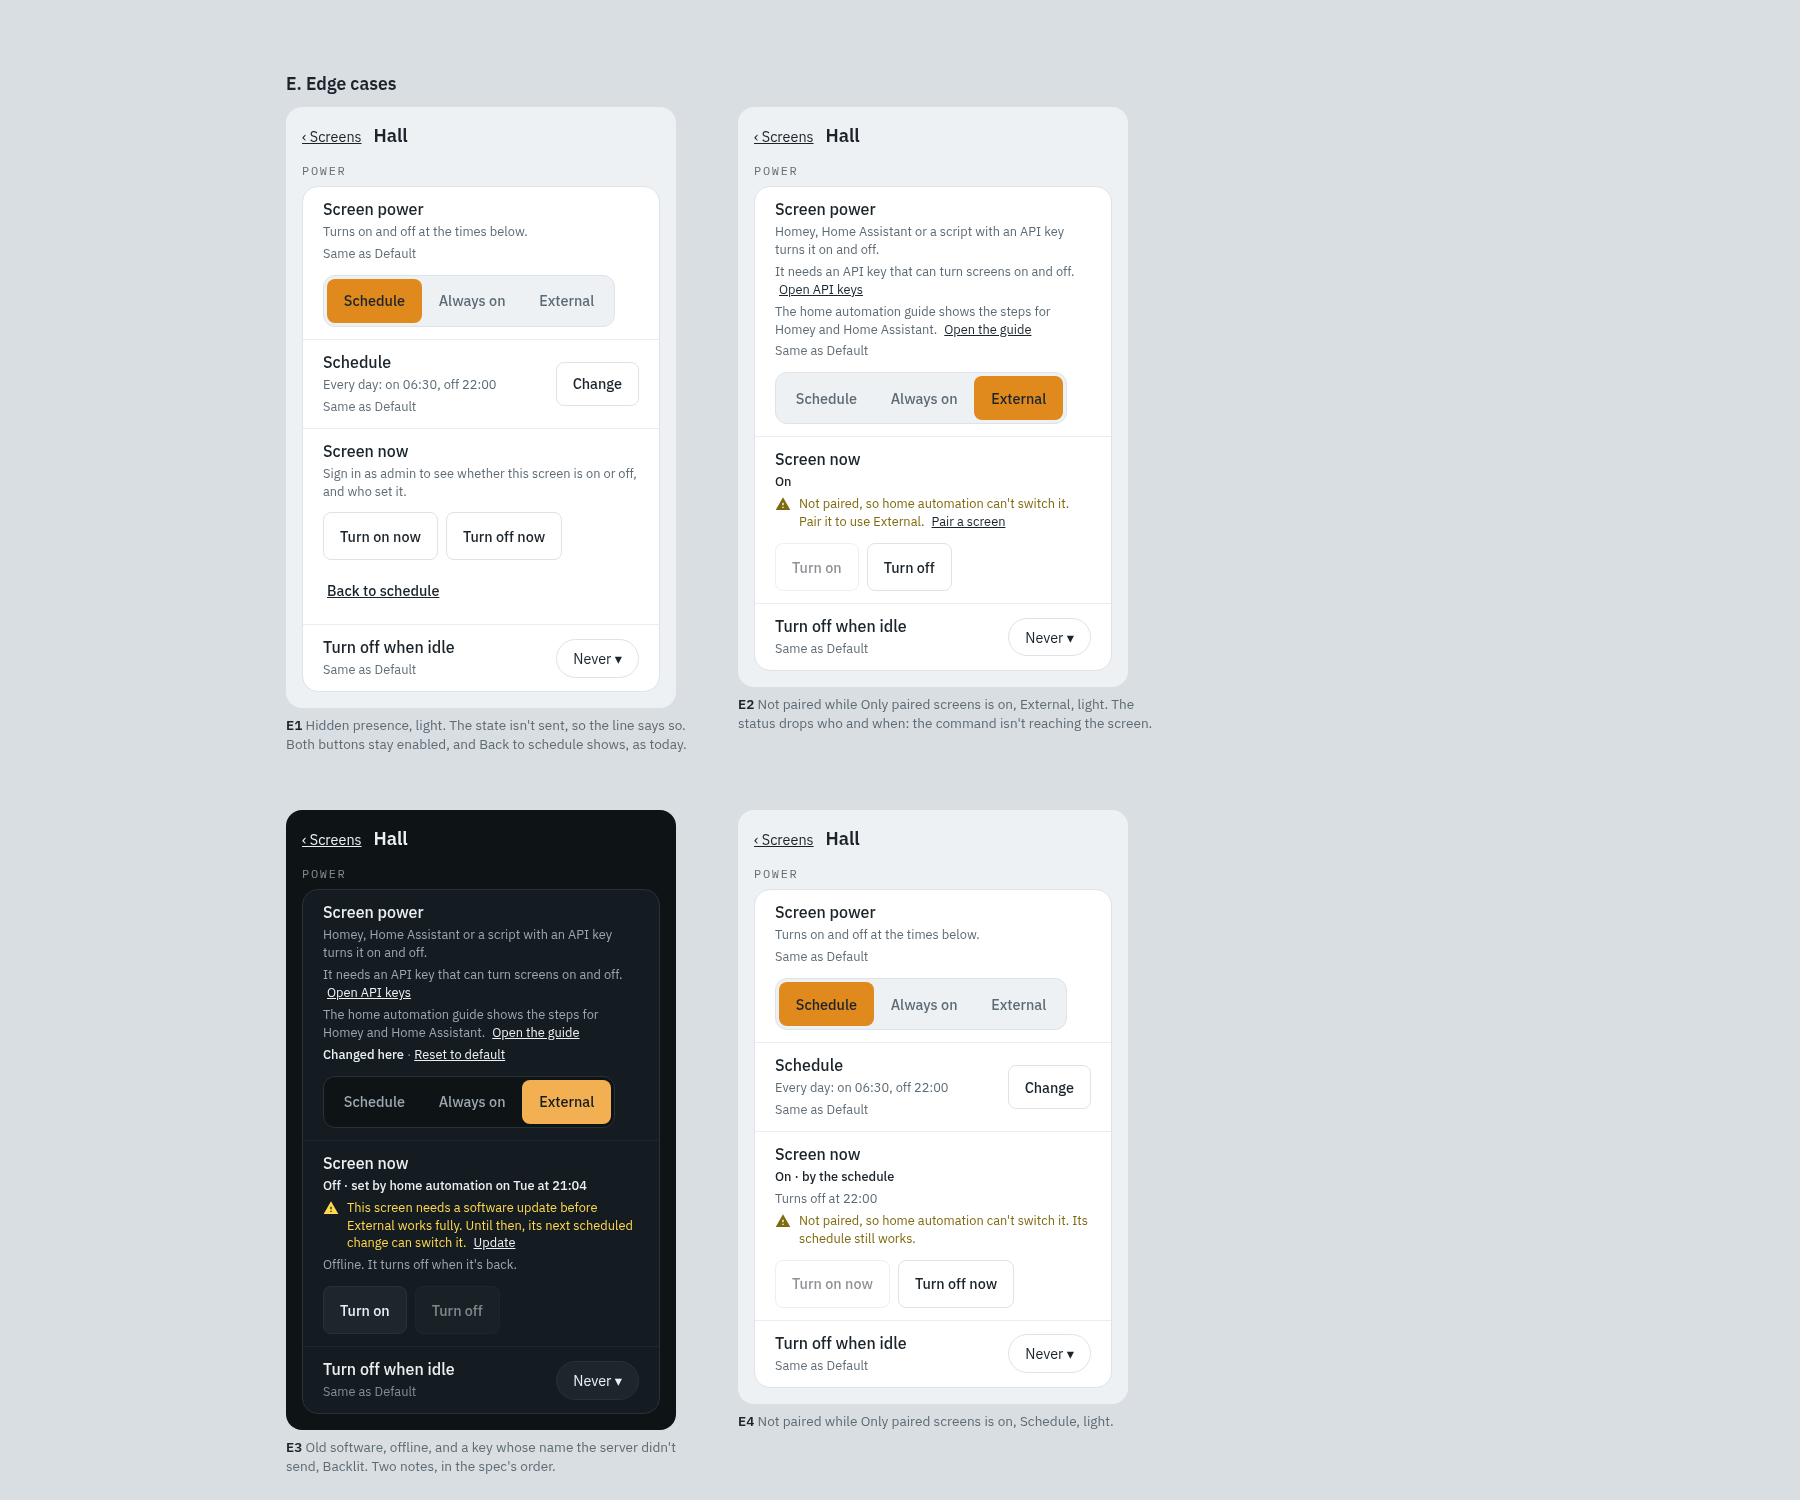
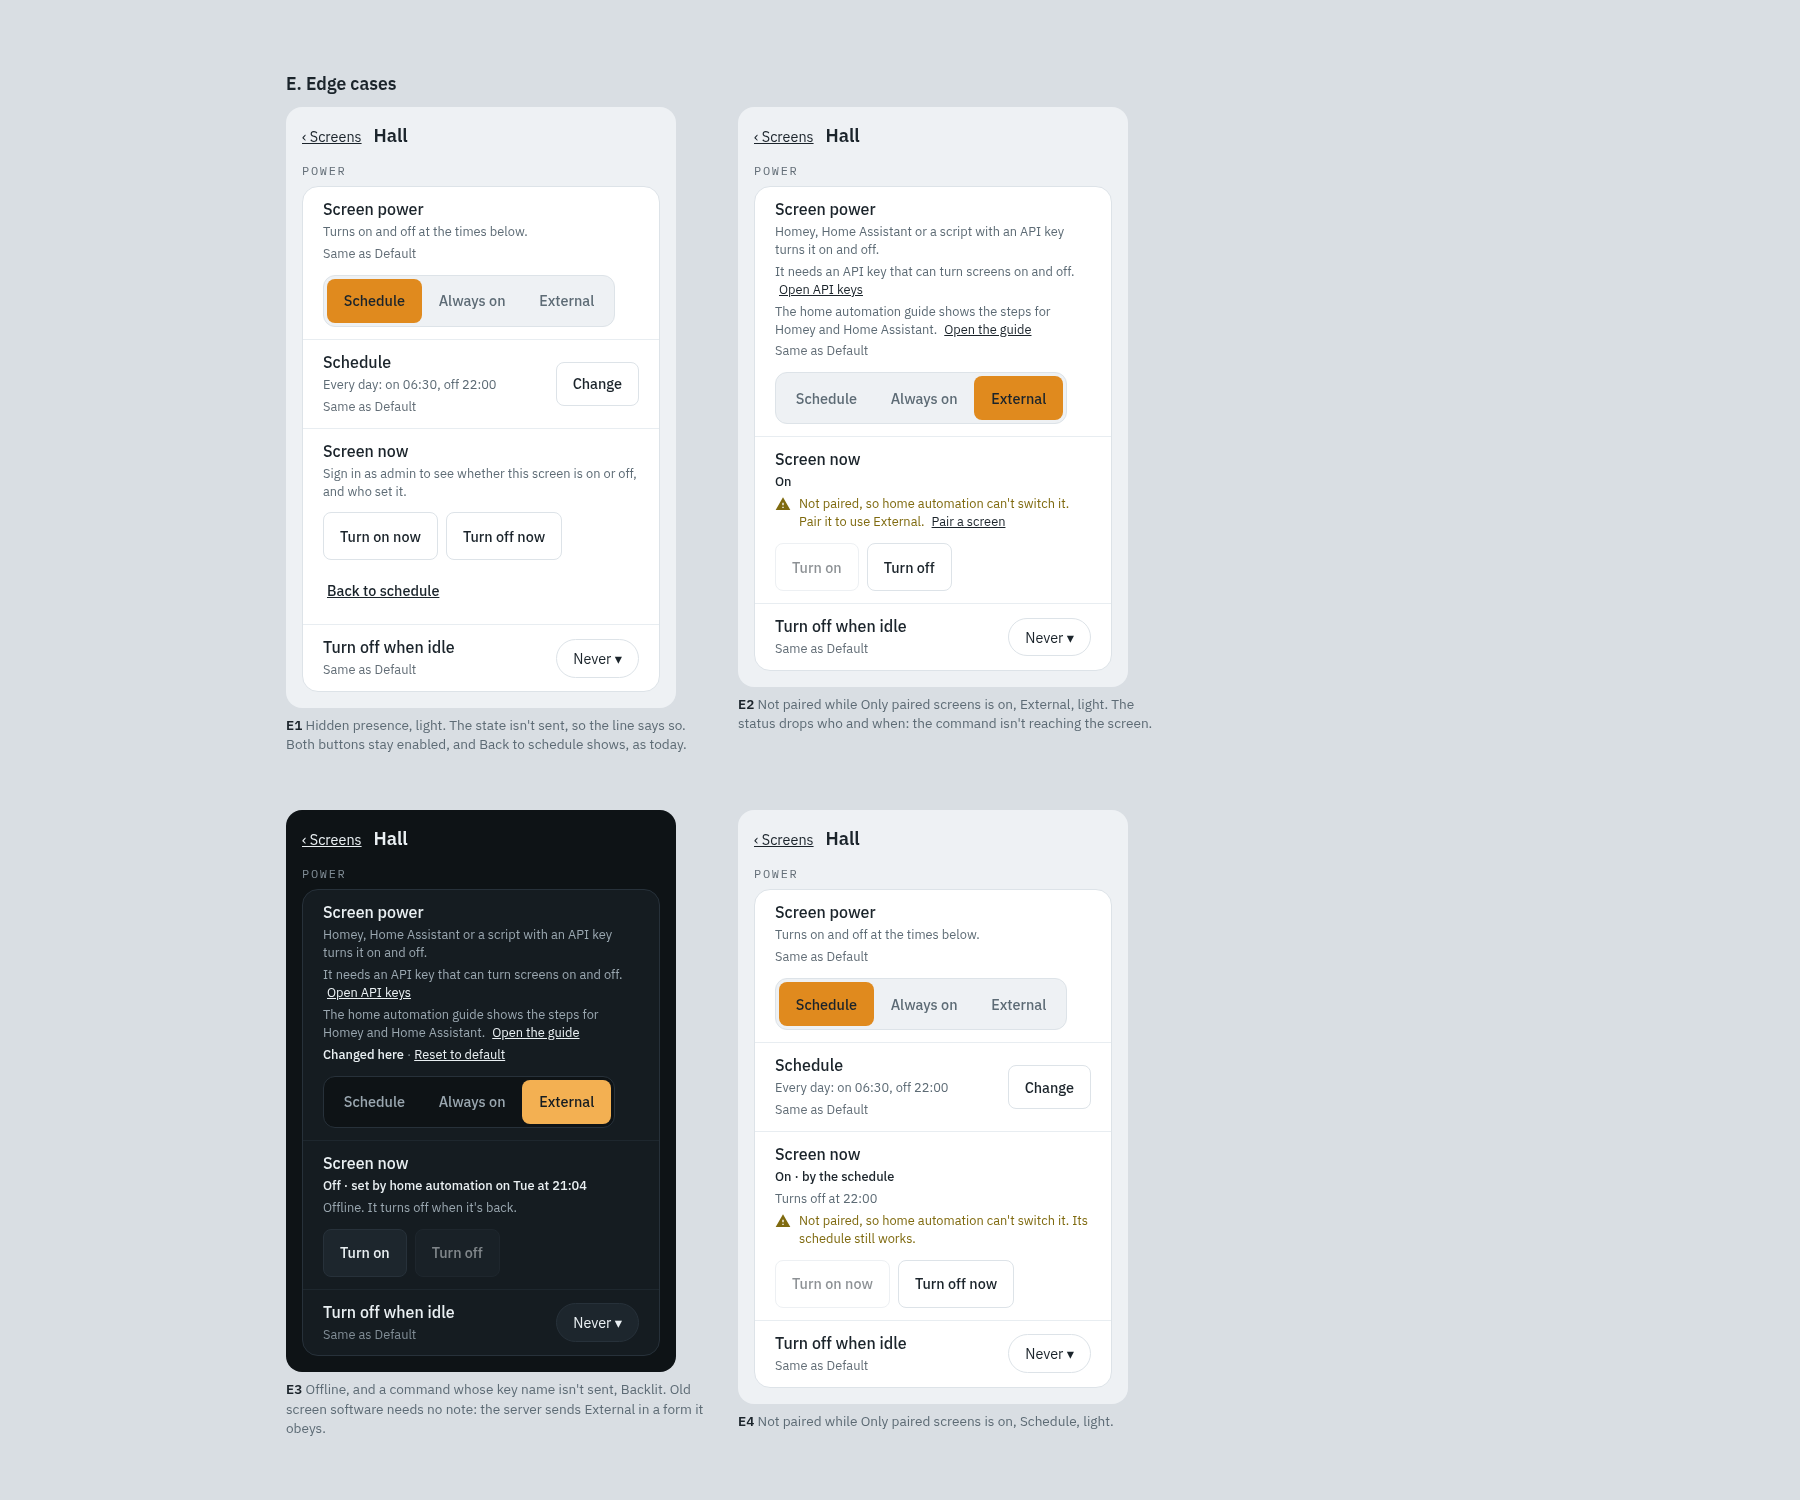
docs(design): screen power mode, server answers (calvin-25g9)
Use screenPower, the answer's until and keyName, the server's 409 messages, and drop the old-software note now that the server projects External to old agents.

Changed region(s): [[0.1556, 0.7973, 0.4044, 0.9813]]

diff --git a/docs/design/mocks/screen-power/index.html b/docs/design/mocks/screen-power/index.html
@@ -236,9 +236,8 @@ const EDGES = [
     caption: "Not paired while Only paired screens is on, External, light. The status drops who and when: the command isn't reaching the screen." },
   { id: "E3", mode: "external", own: true, on: false, dark: true,
     status: "Off · set by home automation on Tue at 21:04",
-    notes: [warn("This screen needs a software update before External works fully. Until then, its next scheduled change can switch it.", "Update"),
-            neutral("Offline. It turns off when it's back.")],
-    caption: "Old software, offline, and a key whose name the server didn't send, Backlit. Two notes, in the spec's order." },
+    notes: [neutral("Offline. It turns off when it's back.")],
+    caption: "Offline, and a command whose key name isn't sent, Backlit. Old screen software needs no note: the server sends External in a form it obeys." },
   { id: "E4", mode: "schedule", own: false, on: true,
     status: "On · by the schedule", until: "Turns off at 22:00",
     notes: [warn("Not paired, so home automation can't switch it. Its schedule still works.")],

diff --git a/docs/design/2026-11-21-screen-power-mode.md b/docs/design/2026-11-21-screen-power-mode.md
@@ -13,7 +13,8 @@ Builds on:
   rules, the [Default screen](2026-10-30-default-screen.md) override pattern and the
   [kiosk pairing](2026-11-21-kiosk-pairing.md) spec (§3.4 hidden presence, §5 Pair a screen).
 
-The server design (the coordinator's) fixes the behaviour, the config key and the routes. This spec fixes the
+The server design ([2026-11-21-screen-power-mode-design.md](../superpowers/specs/2026-11-21-screen-power-mode-design.md))
+fixes the behaviour, the config key (`screenPower`: `schedule` | `always_on` | `external`) and the routes. This spec fixes the
 layout, the copy, the states, focus and screen-reader behaviour. Copy in **bold** is exact.
 
 ## 1. Decisions in one place
@@ -43,15 +44,15 @@ layout, the copy, the states, focus and screen-reader behaviour. Copy in **bold*
 
 ### 2.1 The row (P1-P3, K1, K2)
 
-`SettingRow` `stacked`, label **Screen power**, `id` from `rowAnchorId(<mode key>)`.
+`SettingRow` `stacked`, label **Screen power**, `id` from `rowAnchorId('screenPower')`.
 
 - **Control:** `SegmentedControl`, `aria-label="Screen power"`, options in this order:
 
-| value (server's key) | Label | Hint (the row's description) |
+| `screenPower` | Label | Hint (the row's description) |
 |---|---|---|
-| schedule | **Schedule** | **Turns on and off at the times below.** |
-| always on | **Always on** | **Never turns off on a schedule. Turn off when idle still applies.** |
-| external | **External** | **Homey, Home Assistant or a script with an API key turns it on and off.** |
+| `schedule` | **Schedule** | **Turns on and off at the times below.** |
+| `always_on` | **Always on** | **Never turns off on a schedule. Turn off when idle still applies.** |
+| `external` | **External** | **Homey, Home Assistant or a script with an API key turns it on and off.** |
 
 - **Description slot, in order:**
   1. the hint for the current choice, as a plain `<span data-test="screen-power-hint">`;
@@ -96,16 +97,16 @@ the dimming note (today's, unchanged).
 | Case | Status line | Until line |
 |---|---|---|
 | Following the schedule | **On · by the schedule** / **Off · by the schedule** | **Turns off at {time}** / **Turns on at {time}** (the next scheduled change); no line when no change comes in the next 8 days |
-| A choice made here | **On · set here {when}** / **Off · set here {when}** | **Until the next scheduled change at {time}**; **Until the next scheduled change** when the time can't be shown |
+| A choice made here | **On · set here {when}** / **Off · set here {when}** | **Until the next scheduled change at {time}**, where {time} is the answer's `until`; no line when `until` is `null` |
 | A command from home automation | **On · set by {who} {when}** / **Off · set by {who} {when}** | same as above |
 
 - **Buttons:** **Turn on now**, **Turn off now** (secondary). The one that matches the current state is
   `aria-disabled` (today's rule).
 - **Back to schedule** (`variant="link"`, `screen-now-follow`) shows while a choice or a command is in force. It
   ends it, and the status goes back to **by the schedule**.
-- The until line can show a time only when this browser can compute it in the screen's time zone (today's
-  `formatUntil` rule). Otherwise it uses the fallback text. If the server sends the end of the command, use
-  that and drop the fallback.
+- {time} in both until lines is a clock time in the screen's time zone and the household's 12/24-hour choice
+  (`formatUntil`). For a command in force it is the answer's `until`; the browser doesn't work out the end
+  itself. For the following-the-schedule line it is the next boundary (`nextScheduleBoundary`), as today.
 
 ### 3.2 External
 
@@ -113,7 +114,7 @@ the dimming note (today's, unchanged).
 |---|---|
 | A command from home automation | **On · set by {who} {when}** / **Off · set by {who} {when}** |
 | A choice made here | **On · set here {when}** / **Off · set here {when}** |
-| No command since External was chosen | **On · no command yet** / **Off · no command yet** |
+| No command since External was chosen (the answer's `power` is `"schedule"`) | **On · no command yet** (External with no command is on) |
 
 - No until line: the last command stands.
 - **Buttons:** **Turn on**, **Turn off** (secondary), with the same `aria-disabled` rule. Pressing one does what
@@ -122,11 +123,11 @@ the dimming note (today's, unchanged).
 
 ### 3.3 {who} and {when}
 
-- **{who}** is the API key's name when the server sends it (for example **Homey**, the name the person typed
-  when making the key), else **home automation**. It is never "API", a key id or a key prefix. The name is
-  shown as given, cut to 40 characters with "…".
-  - This spec asks the server for the key's name next to `by`. Without it, every command reads
-    **set by home automation**, which is still correct.
+- **{who}** is the answer's `keyName` (for example **Homey**, the name the person typed when making the key),
+  else **home automation**. It is never "API", a key id or a key prefix. The name is shown as given, cut to 40
+  characters with "…".
+  - The server sends `keyName` only to an admin session, which Settings is. A `null` `keyName` reads **set by
+    home automation**, which is still correct.
 - **{when}** is `setAt`, in the screen's time zone and the household's 12/24-hour choice:
   - today: **at 21:04** (or **at 9:04 PM**);
   - in the last 6 days: **on Tue at 21:04**;
@@ -143,6 +144,11 @@ the dimming note (today's, unchanged).
   updates within a minute.**, or the offline line. Focus stays on the pressed button (now `aria-disabled`).
 - **Failure:** `powerMsg` `tone="err"`, `friendlyError(err, "turn {name} on")` / `"turn {name} off"`. Nothing
   else changes.
+- **409** (`screen_power_always_on`, `screen_power_external`): Settings never sends a call that gets one,
+  because the buttons and Back to schedule aren't shown in those modes. If one comes back anyway (the mode
+  changed on another device), `powerMsg` `tone="err"` shows the server's `message` as given, for example
+  **This screen is set to Always on. Choose Schedule or External to switch it.** Then reload the screen's
+  power state. No new UI and no copy of our own.
 - **429:** **Too many changes in a minute. Try again in {wait}.** `{wait}` is the pairing spec's §4.1 rule
   (`Retry-After`).
 - One press is one call. Today's two-step (end the hold, then save `screenNow`) and its
@@ -151,7 +157,8 @@ the dimming note (today's, unchanged).
 ### 3.5 Always on
 
 The Screen now row is not rendered. `desiredOnNow` is `true` for the Brightness group and the display check, so
-neither says the screen is asleep. If the server reports a command for an Always on screen, the page ignores it.
+neither says the screen is asleep. The server refuses commands in Always on with a 409 (§3.4), so there is no
+command to show.
 
 ## 4. Household default and per-screen override
 
@@ -168,14 +175,14 @@ neither says the screen is asleep. If the server reports a command for an Always
 
 The Power section (`device-power`) shows, in order:
 1. **Screen power**, the same row as §2.1, without a `ScopeLine` (the Default page has none);
-2. `DefaultEditNote` for the mode key, so after a change: **Hall keeps its own screen power.** /
+2. `DefaultEditNote` for `screenPower`, so after a change: **Hall keeps its own screen power.** /
    **Hall and Office keep their own screen power.**, with **Change them too** (today's component);
 3. in Schedule: the schedule, its `DefaultEditNote`, and the Timezone row, as today;
 4. Turn off when idle and the brightness note, as today.
 
 There is no Screen now row and there are no buttons on the Default page: the Default isn't a screen.
 
-- `SCREEN_SETTING_LABELS[<mode key>]` is **screen power**. It drives the note and the Changed here list.
+- `SCREEN_SETTING_LABELS.screenPower` is **screen power**. It drives the note and the Changed here list.
 - The old `displayScheduleEnabled` label and its toggle go. The server maps the stored value
   (`true` → Schedule, `false` → Always on).
 
@@ -216,13 +223,12 @@ in this order.
 | Hidden presence | `presenceHidden` | Schedule, External | replaces the status and until lines, neutral: **Sign in as admin to see whether this screen is on or off, and who set it.** (`screen-now-hidden`). Both buttons stay enabled, and Back to schedule shows, as today |
 | Not paired, while Only paired screens is on | `paired === false` and `kioskPairing === "required"` | Schedule | `warn`: **Not paired, so home automation can't switch it. Its schedule still works.** (`screen-now-unpaired`) |
 | | | External | `warn`: **Not paired, so home automation can't switch it. Pair it to use External.**, with the action **Pair a screen** (the pairing spec's §5 handler) |
-| Software too old for External | `agentHolds === false` | External only | `warn`: **This screen needs a software update before External works fully. Until then, its next scheduled change can switch it.**, with the action **Update** (the Software section's `onUpdate`, its **Updating…** and **Try again** labels) (`screen-now-old-agent`) |
 | Offline | `!isOnline(selectedKiosk)` | Schedule, External | neutral: **Offline. It turns on when it's back.** / **Offline. It turns off when it's back.** (from `desiredOn`) (`screen-now-offline`) |
 
 - In the unpaired case, the status line keeps its state and drops {who and when}: **On** / **Off**. Home
   automation's command isn't reaching the screen, so naming it would mislead.
-- `agentHolds === null` (no poll since the update) gets no note.
-- In Schedule an old agent needs no note: it already obeys a command until the next scheduled change.
+- Old screen software needs no note in any mode: the server sends External to it in a form it already obeys.
+  `agentHolds` is not read by the Power section any more, and today's `screen-now-old-agent` note is removed.
 - An offline screen's buttons stay enabled. The press is stored, and the offline save line says when it
   applies.
 
@@ -247,7 +253,7 @@ The mock shows every state at 390 px (phone) and 800×480 (the wall panel, lands
 - **Don't clear or edit the schedule** when the mode changes (§2.2).
 - **Don't show Screen now, or Turn on or Turn off, in Always on** (§3.5), and don't show buttons on the Default
   page.
-- **Don't invent a key name.** Without the server's name, say **home automation** (§3.3). Never show a key id,
+- **Don't invent a key name.** With no `keyName`, say **home automation** (§3.3). Never show a key id,
   a prefix or a secret.
 - **Don't read `presenceHidden` as "following the schedule"** (pairing spec §3.4).
 - **Don't add a Tag or a coloured dot** for the mode, or a second copy of the control elsewhere (for example on
@@ -274,8 +280,8 @@ The mock shows every state at 390 px (phone) and 800×480 (the wall panel, lands
   - {when} for today, 3 days ago and 20 days ago, in 24h and 12h;
   - a name longer than 40 characters is cut.
 - **Edges:** `presenceHidden`, unpaired with required pairing (both modes, and the **Pair a screen** action),
-  `agentHolds: false` only in External, `agentHolds: null` with no note, and offline with each `desiredOn`.
-- **Override:** ScopeLine reads **Same as Default** / **Changed here**. Reset removes only the mode key and keeps
+  no note for `agentHolds: false` in any mode, and offline with each `desiredOn`.
+- **Override:** ScopeLine reads **Same as Default** / **Changed here**. Reset removes only `screenPower` and keeps
   `displaySchedule`.
 - **Default page:** no Screen now, and the `DefaultEditNote` sentence **Hall keeps its own screen power.**
 - **Summaries:** **External on/off** in the list and the Default card.
@@ -288,12 +294,16 @@ The mock shows every state at 390 px (phone) and 800×480 (the wall panel, lands
 - Update the existing `ScreensSettings.hold.spec.js` and `settings-dashboard-screens.spec.js` cases that assert
   the old copy. Don't delete them: rewrite them to the new copy.
 
-## 10. Left to the server design and the docs
+## 10. The server's answers
 
-These aren't layout calls. The UI above needs them:
-- the mode key and its values, and the mapping from `displayScheduleEnabled`;
-- in the screen-power answer: the mode, `by`, `setAt`, the key's name (§3.3), and, ideally, when a command made in
-  Schedule ends;
-- what a command does in Always on. This spec assumes it is ignored (§3.5);
-- what happens to the last command when the mode changes away from External;
-- `HOME_AUTOMATION.md` "Settings and people" and the Homey app spec must be rewritten to this page's words.
+The server design answers what this page asked:
+- **The key** is `screenPower` (`schedule`, `always_on`, `external`). When a layer doesn't have it, the server
+  derives it from `displayScheduleEnabled`, so existing installs read as before.
+- **A command in Always on**, or `schedule` in External, gets a 409 with the server's own message (§3.4).
+- **Changing the mode ends the last command.** External with no command is on (§3.2).
+- **Old screen software obeys External**, so there is no old-software note (§6).
+- **The answer** carries `mode`, `power`, `by`, `setAt`, `until` (§3.1) and, for admin sessions, `keyName`
+  (§3.3).
+
+Still open, for the docs lane: `HOME_AUTOMATION.md` "Settings and people" and the Homey app spec must be
+rewritten to this page's words.
